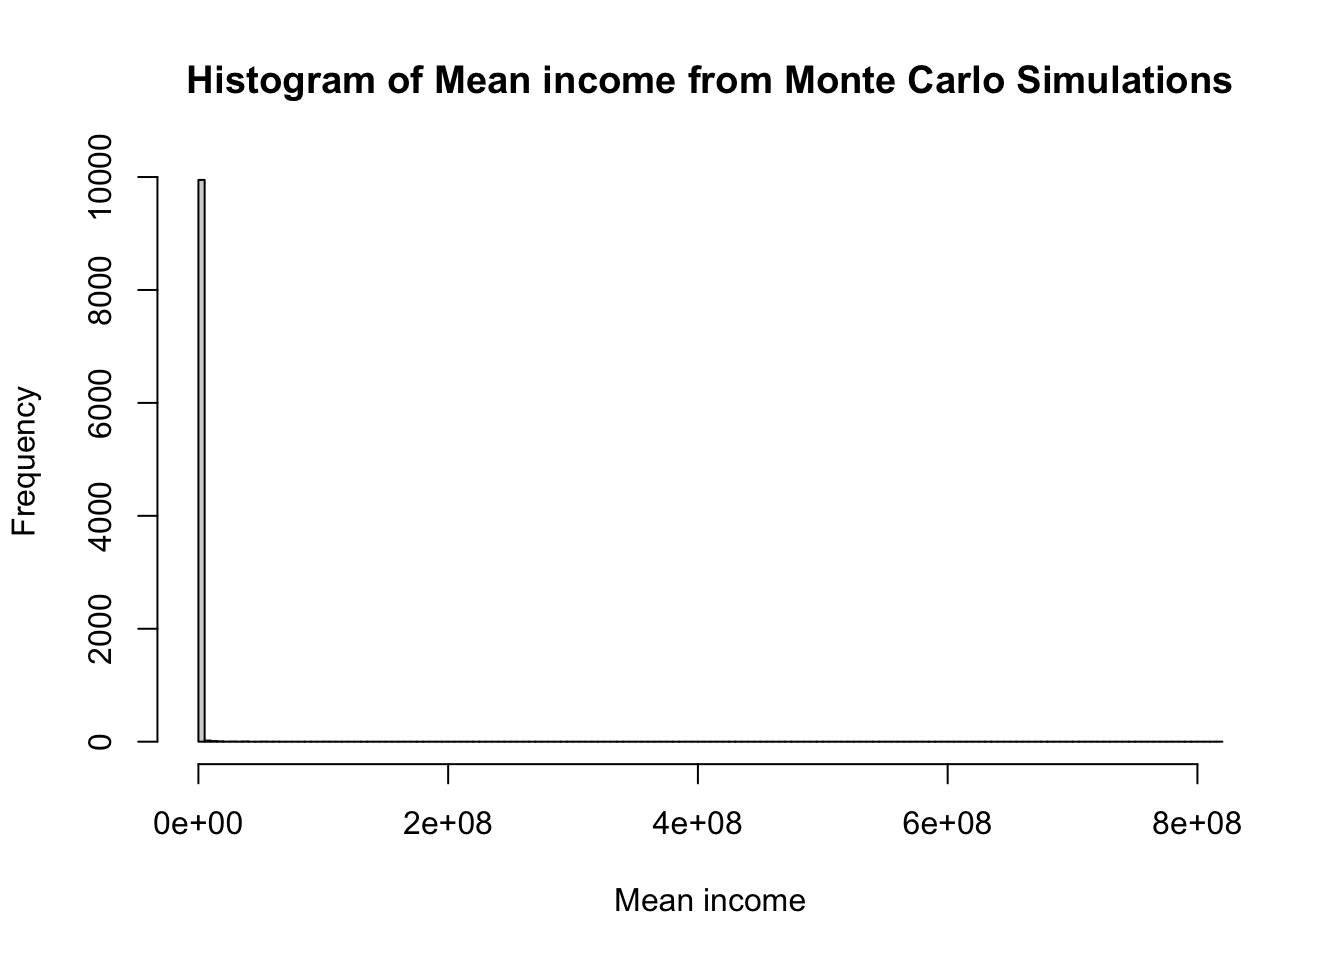
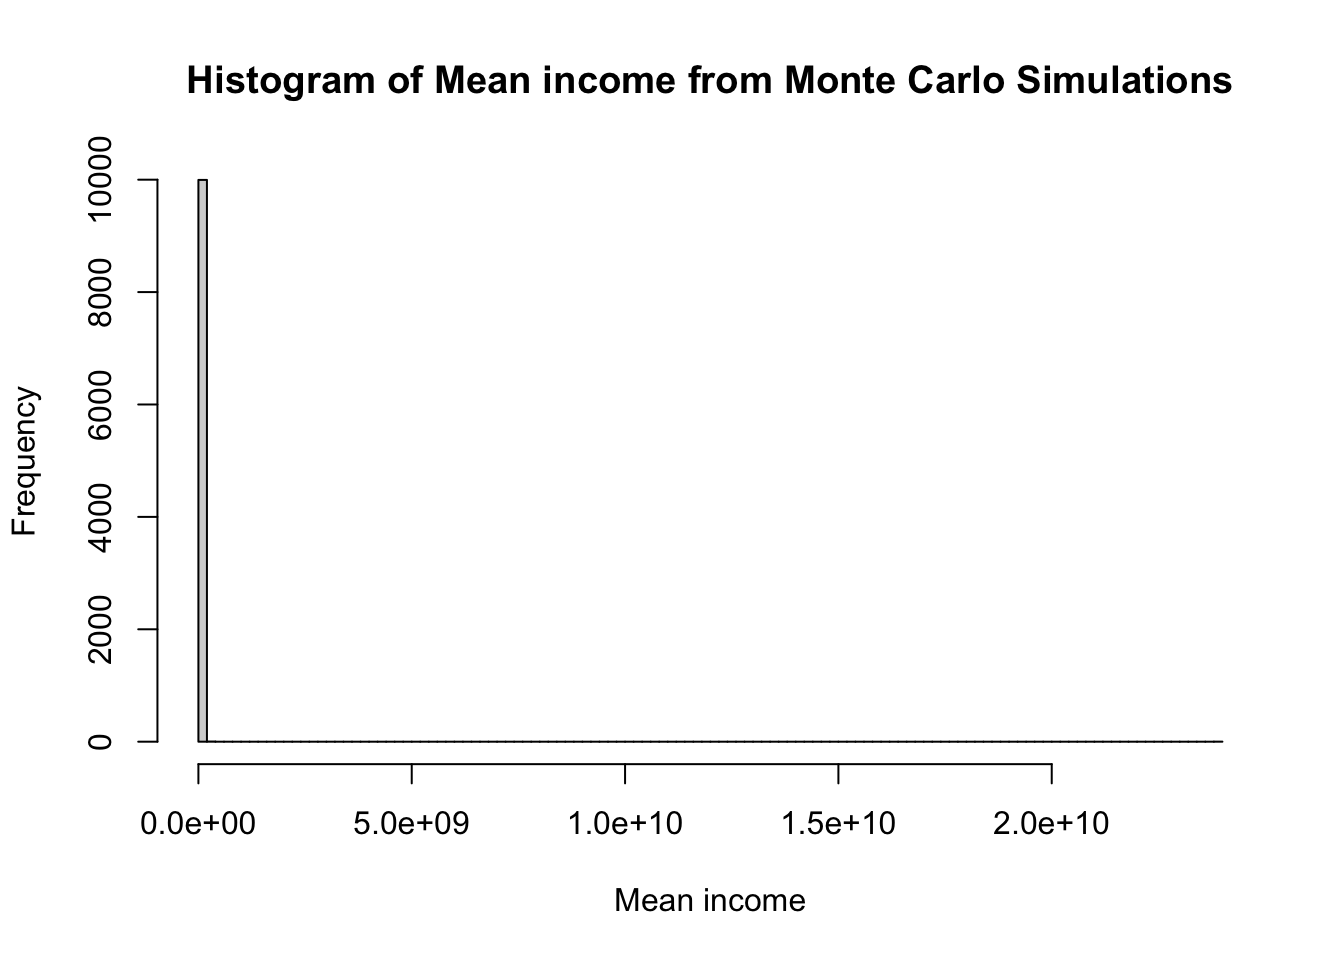
jensen 2924

diff --git a/docs/Catallactics/Personal/jenson.html b/docs/Catallactics/Personal/jenson.html
@@ -864,7 +864,7 @@ window.Quarto = {
     <h2 id="toc-title">On this page</h2>
    
   <ul>
-  <li><a href="#risk-and-payoff-graph" id="toc-risk-and-payoff-graph" class="nav-link active" data-scroll-target="#risk-and-payoff-graph">Risk and payoff graph</a>
+  <li><a href="#risk-and-pay-off-graph" id="toc-risk-and-pay-off-graph" class="nav-link active" data-scroll-target="#risk-and-pay-off-graph">Risk and pay-off graph</a>
   <ul class="collapse">
   <li><a href="#conclusion" id="toc-conclusion" class="nav-link" data-scroll-target="#conclusion">Conclusion</a></li>
   </ul></li>
@@ -901,9 +901,10 @@ window.Quarto = {
 </header>
 
 
-<section id="risk-and-payoff-graph" class="level2">
-<h2 class="anchored" data-anchor-id="risk-and-payoff-graph">Risk and payoff graph</h2>
-<p>Pay-off, g, is a function of x, given by f(x)=g. Let us plot <strong>risk</strong>, x, in x axis and <strong>pay-off</strong>, g, in y axis. When we go to the right in the x axis, risk goes on increasing and at one point x<sub>2</sub>, risk is 100%. We can loose everything deployed. Yet the reward is exponentially high to ignore,1000%!. In the extreme left, x<sub>1</sub> , we can deploy the same asset with zero risk to get a modest return of 9%. Let the probability of x<sub>1</sub> be p<sub>1</sub> and probability of p<sub>2</sub> be (1-p<sub>1</sub>). p<sub>1</sub> is extremely likely event and p<sub>2</sub> is less likely event. But for simplicity, p<sub>1</sub> is around 66% and p<sub>2</sub> is around 33% ( assuming that x<sub>2</sub> happens when ever market moves more than 10% in either directions in 6 months). The below diagram graphically depicts the above mentioned scenario.</p>
+<section id="risk-and-pay-off-graph" class="level2">
+<h2 class="anchored" data-anchor-id="risk-and-pay-off-graph">Risk and pay-off graph</h2>
+<p>Pay-off, g, is a convex function of x, given by f(x)=g.</p>
+<p>Let us plot <strong>risk</strong>, x, in x axis and <strong>pay-off</strong>, g, in y axis. When we go to the right in the x axis, risk goes on increasing and at one point x<sub>2</sub>, risk is 100%. We can loose everything deployed. Yet the reward is exponentially high to ignore,1000%!. In the extreme left, x<sub>1</sub> , we can deploy the same asset with zero risk to get a modest return of 9%. Let the probability of x<sub>1</sub> be p<sub>1</sub> and probability of x<sub>2</sub> be p<sub>2</sub>. p<sub>1</sub> is extremely likely event and p<sub>2</sub> is less likely event, and they can be unrelated. But for simplicity, p<sub>1</sub> is around 66% and p<sub>2</sub> is around 33% ( assuming that x<sub>2</sub> happens when ever market moves more than 10% in either directions in 6 months). The below diagram graphically depicts the above mentioned scenario.</p>
 <div class="quarto-figure quarto-figure-center">
 <figure class="figure">
 <p><img src="images/jenson.png" class="img-fluid figure-img"></p>
@@ -920,7 +921,13 @@ E(g) &gt;= f(E(x))
 <blockquote class="blockquote">
 <p>Never put all eggs in one basket of similar risk-pay-off profile.</p>
 </blockquote>
-<p>Our immediate hunch will be to distribute the asset in all possible values of x to get an expected pay-off which is greater than the sum of the individual returns. Problem with this approach is the fact that we are neglecting the play of probability where the moral expectation is the true pay-off or return.</p>
+<p>Our immediate hunch will be to distribute the asset in all possible values of x to get an expected pay-off which is greater than the sum of the individual returns. This is true for a single period return.</p>
+<p>Problem with this is, when we invest for multiple periods without rebalancing, the approach neglect the following facts:</p>
+<ul>
+<li><p>the money weighted moral expectation (geometric mean) is the true pay-off or return.</p></li>
+<li><p>The correlation between various asset classes play a major role in determining the final return.</p></li>
+</ul>
+<p>Because most asset classes which are originally negatively correlated become positively correlated during a draw-down, diversification reduces the geometric mean to mediocre levels.</p>
 <div class="callout callout-style-default callout-caution callout-titled">
 <div class="callout-header d-flex align-content-center">
 <div class="callout-icon-container">
@@ -931,17 +938,17 @@ Caution
 </div>
 </div>
 <div class="callout-body-container callout-body">
-<p>In other words, the true return is not the arithmetic mean, it is the geometric mean of probability weighted return on capital.</p>
+<p>In other words, for multiple period investment, the true return is not the arithmetic mean, it is the geometric mean of money weighted return on capital. Diversification reduces the downside risk, but with a bad side effect of reducing the <strong>upside risk</strong>.</p>
 </div>
 </div>
 <p>Then, what should be our strategy?</p>
-<p>It is impossible to predict the future return. What we can do is try to domesticate uncertainty by limiting the downside risk to minimum fixed value while keeping all the upside risks untouched.</p>
+<p>For multiple period time horizon, it is impossible to predict the future return. What we can do is try to domesticate uncertainty by limiting the downside risk to minimum fixed value while keeping all the upside risks untouched.</p>
 </section>
 </section>
 <section id="best-of-both-worlds" class="level2">
 <h2 class="anchored" data-anchor-id="best-of-both-worlds">Best of both worlds</h2>
-<p>§1. Deploy almost all assets in a risk free instrument and use a small amount of capital to speculate in a highly convex instrument</p>
-<p>§2. Deploy almost all assets in a moderately risky instrument and take insurance against downside</p>
+<p>§1. Deploy almost all assets in a risk free instrument with an certain return for all time periods and use a small amount of capital to speculate in a highly convex instrument totally unrelated to the original asset.</p>
+<p>§2. Deploy almost all assets in a moderately risky instrument and take insurance against downside.</p>
 <div class="quarto-figure quarto-figure-center">
 <figure class="figure">
 <p><img src="https://png.pngtree.com/png-clipart/20230816/original/pngtree-barbeldumbbell-gym-icon-logo-template-barbells-weights-press-vector-picture-image_10919626.png" class="img-fluid figure-img" width="411"></p>

diff --git a/docs/posts/montecarlo.html b/docs/posts/montecarlo.html
@@ -1071,7 +1071,7 @@ Income distribution is not normal
 </details>
 <div class="cell-output cell-output-stdout">
 <pre><code>     Min.   1st Qu.    Median      Mean   3rd Qu.      Max. 
-   207816    295133    343050    609472    434507 815243456 </code></pre>
+2.149e+05 2.964e+05 3.428e+05 3.047e+06 4.362e+05 2.390e+10 </code></pre>
 </div>
 <details open="" class="code-fold">
 <summary>Code</summary>
@@ -1079,7 +1079,7 @@ Income distribution is not normal
 </details>
 <div class="cell-output cell-output-stdout">
 <pre><code>   Min. 1st Qu.  Median    Mean 3rd Qu.    Max. 
-  62194   64061   64505   64508   64936   66951 </code></pre>
+  62325   64074   64503   64515   64939   67587 </code></pre>
 </div>
 <details open="" class="code-fold">
 <summary>Code</summary>
@@ -1087,7 +1087,7 @@ Income distribution is not normal
 </details>
 <div class="cell-output cell-output-stdout">
 <pre><code>     Min.   1st Qu.    Median      Mean   3rd Qu.      Max. 
-8.541e+05 3.313e+06 5.647e+06 3.161e+07 1.157e+07 8.149e+10 </code></pre>
+9.828e+05 3.338e+06 5.603e+06 2.753e+08 1.184e+07 2.390e+12 </code></pre>
 </div>
 </div>
 </section>

diff --git a/docs/Biomedical/Research Methodology/wrangling.html b/docs/Biomedical/Research Methodology/wrangling.html
@@ -2368,11 +2368,11 @@ Record
 <pre><code>     age   sex  class
    &lt;int&gt; &lt;int&gt; &lt;fctr&gt;
 1:     1     0  child
-2:     2     0  child
+2:     2     1  child
 3:     3     1  child
 4:     4     1  child
 5:     5     1  child
-6:     6     1  child</code></pre>
+6:     6     0  child</code></pre>
 </div>
 </div>
 <section id="making-data-wide" class="level3">
@@ -2391,11 +2391,11 @@ Record
      age      0      1
    &lt;int&gt; &lt;fctr&gt; &lt;fctr&gt;
 1:     1  child   &lt;NA&gt;
-2:     2  child   &lt;NA&gt;
+2:     2   &lt;NA&gt;  child
 3:     3   &lt;NA&gt;  child
 4:     4   &lt;NA&gt;  child
 5:     5   &lt;NA&gt;  child
-6:     6   &lt;NA&gt;  child</code></pre>
+6:     6  child   &lt;NA&gt;</code></pre>
 </div>
 </div>
 

diff --git a/docs/Revision notes/Diagrams/diagrams.html b/docs/Revision notes/Diagrams/diagrams.html
@@ -1351,7 +1351,7 @@ window.document.addEventListener("DOMContentLoaded", function (event) {
 </div>
   </div>
 </footer>
-<script>var lightboxQuarto = GLightbox({"selector":".lightbox","closeEffect":"zoom","openEffect":"zoom","loop":false,"descPosition":"bottom"});
+<script>var lightboxQuarto = GLightbox({"selector":".lightbox","closeEffect":"zoom","loop":false,"openEffect":"zoom","descPosition":"bottom"});
 window.onload = () => {
   lightboxQuarto.on('slide_before_load', (data) => {
     const { slideIndex, slideNode, slideConfig, player, trigger } = data;
